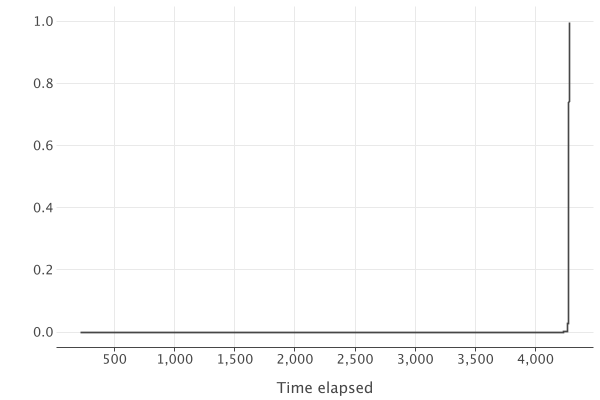
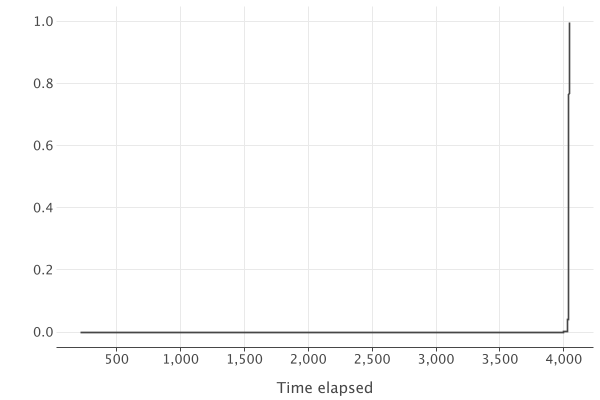
Feat: Added variable drag coefficients for different stages of flight

diff --git a/src/main/kotlin/Ballistics/2StageBallistic.kt b/src/main/kotlin/Ballistics/2StageBallistic.kt
@@ -4,22 +4,21 @@ import Maths.CartesianCoordinates.MutableCartesianCoordinate
 import Maths.Vector
 import Plotter.BallisticPlotter
 import Plotter.TimePlotter
-import Presets.launchSiteSpherical
 import Simulator
 import dt
 import time
 import kotlin.math.abs
 
 class `2StageBallistic`(
-    private val stage1 : Ballistic,
-    private val stage2 : Ballistic,
-    private val warhead : Ballistic
+    private val stage1 : PoweredBallistic,
+    private val stage2 : PoweredBallistic,
+    private val warhead : PoweredBallistic
 ) : Interfaces.Target {
 
     private var position : MutableCartesianCoordinate = stage1.startPosition.toMutable()
     private var velocity : Vector = stage1.headingVector.scale_to(1.0)
-    private var secondStage : Ballistic? = null;
-    private var thirdStage : Ballistic? = null;
+    private var secondStage : PoweredBallistic? = null;
+    private var thirdStage : PoweredBallistic? = null;
 
     private var alive : Boolean = true;
 
@@ -29,27 +28,27 @@ class `2StageBallistic`(
     private val gPlotter : TimePlotter = TimePlotter()
     private val altTimePlotter : TimePlotter = TimePlotter()
 
-    private val firstStage : Ballistic = Ballistic(
+    private val firstStage : PoweredBallistic = PoweredBallistic(
         startPosition = stage1.startPosition,
         headingVector = stage1.headingVector,
         thrust = stage1.thrust,
         burnTime = stage1.burnTime,
         emptyWeight = stage1.emptyWeight + stage2.emptyWeight + stage2.fuelMass + warhead.emptyWeight,
         fuelMass = stage1.fuelMass,
-        dragCoefficient = stage1.dragCoefficient,
+        ballisticProfile = stage1.ballisticProfile,
         crossSectionalArea = stage1.crossSectionalArea,
         launchTime = stage1.launchTime
     )
 
-    private fun createSecondStage() : Ballistic {
-        val ret = Ballistic(
+    private fun createSecondStage() : PoweredBallistic {
+        val ret = PoweredBallistic(
             startPosition = this.position.toImmutable(),
             headingVector = this.position.toSphericalCoordinate().convertRelativeVector(stage2.headingVector),
             thrust = stage2.thrust,
             burnTime = stage2.burnTime,
             emptyWeight = stage2.emptyWeight + warhead.emptyWeight,
             fuelMass = stage2.fuelMass,
-            dragCoefficient = stage2.dragCoefficient,
+            ballisticProfile = stage2.ballisticProfile,
             crossSectionalArea = stage2.crossSectionalArea,
             launchTime = time
         )
@@ -58,15 +57,15 @@ class `2StageBallistic`(
         return ret
     }
 
-    private fun createThirdStage() : Ballistic {
-        val ret = Ballistic(
+    private fun createThirdStage() : PoweredBallistic {
+        val ret = PoweredBallistic(
             startPosition = this.position.toImmutable(),
             headingVector = this.velocity,
             thrust = 1.0,
             burnTime = 1.0,
             emptyWeight = warhead.emptyWeight,
             fuelMass = 1.0,
-            dragCoefficient = warhead.dragCoefficient,
+            ballisticProfile = warhead.ballisticProfile,
             crossSectionalArea = warhead.crossSectionalArea,
             launchTime = time
         )

diff --git a/src/main/kotlin/Presets/ICBMs.kt b/src/main/kotlin/Presets/ICBMs.kt
@@ -1,36 +1,33 @@
 package Presets
 
-import Ballistics.Ballistic
-import Maths.CartesianCoordinates.CartesianCoordinate
+import Ballistics.BallisticProfile
+import Ballistics.PoweredBallistic
 import Maths.Vector
 
 // ICBM, based loosely on the R-36
-val R36s1 = Ballistic(
+val R36s1 = PoweredBallistic(
     startPosition = launchSite,
     headingVector = launchSiteSpherical.convertRelativeVector(Vector(0.2, 0.0, 1.0)),
     thrust = 2366.0 * 1000.0,
     burnTime = 120.0,
     emptyWeight = 6.4 * 1000,
     fuelMass = 118.9 * 1000,
-    dragCoefficient = 0.2,
     crossSectionalArea = 9.0)
-val R36s2 = Ballistic(
+val R36s2 = PoweredBallistic(
     startPosition = launchSite,
     headingVector = Vector(2.0, 0.0, 0.5),
     thrust = 940.0 * 1000.0,
     burnTime = 100.0,
     emptyWeight = 6.7 * 1000,
     fuelMass = 45.6 * 1000,
-    dragCoefficient = 0.2,
     crossSectionalArea = 9.0)
-val R36warhead = Ballistic(
+val R36warhead = PoweredBallistic(
     startPosition = launchSite,
     headingVector = Vector(1.0, 0.0, 1.0),
     thrust = 0.0,
     burnTime = 0.0,
     emptyWeight = 7800.0,
     fuelMass = 0.0,
-    dragCoefficient = 0.05,
     crossSectionalArea = 0.16)
 val R36 = Ballistics.`2StageBallistic`(
     stage1 = R36s1,
@@ -39,32 +36,29 @@ val R36 = Ballistics.`2StageBallistic`(
 )
 
 // Minuteman III
-val ThiokolTu122 = Ballistic(
+val ThiokolTu122 = PoweredBallistic(
     startPosition = launchSite,
     headingVector = launchSiteSpherical.convertRelativeVector(Vector(0.4, 0.0, 1.0)),
     thrust = 792.0 * 1000.0,
     burnTime = 60.0,
     emptyWeight = 2292.0,
     fuelMass = 20785.0,
-    dragCoefficient = 0.2,
     crossSectionalArea = 1.67 * 1.67)
-val SR19andSR73 = Ballistic(
+val SR19andSR73 = PoweredBallistic(
     startPosition = launchSite,
     headingVector = Vector(1.0, 0.0, 1.0),
     thrust = 267.70 * 1000.0,
     burnTime = 66.0,
     emptyWeight = 795.0 + 400.0,
     fuelMass = 6237.0 + 3200.0,
-    dragCoefficient = 0.2,
     crossSectionalArea = 1.33 * 1.33)
-val W56Warhead = Ballistic(
+val W56Warhead = PoweredBallistic(
     startPosition = launchSite,
     headingVector = Vector(1.0, 0.0, 1.0),
     thrust = 0.1,
     burnTime = 0.1,
     emptyWeight = 577.0,
     fuelMass = 0.0,
-    dragCoefficient = 0.03,
     crossSectionalArea = 1.33 * 1.33)
 val MinutemanIII = Ballistics.`2StageBallistic`(
     stage1 = ThiokolTu122,

diff --git a/src/main/kotlin/Presets/TestTargets.kt b/src/main/kotlin/Presets/TestTargets.kt
@@ -1,7 +1,7 @@
 package Presets
 
 import Guidance.AltitudeCruiseGuidance
-import Ballistics.Ballistic
+import Ballistics.PoweredBallistic
 import Maths.CartesianCoordinates.CartesianCoordinate
 import Maths.SphericalCoordinates.SphericalCoordinate
 import Maths.Vector
@@ -19,61 +19,56 @@ val launchSite : CartesianCoordinate =
 val elevatedLaunchSite : CartesianCoordinate =
     elevatedLaunchSiteSpherical.toCartesianCoordinate()
 
-val test_ballistic_1 = Ballistic(
+val test_Powered_ballistic_1 = PoweredBallistic(
     startPosition = launchSite,
     headingVector = launchSiteSpherical.convertRelativeVector(Vector(0.2, 1.0, 1.5)),
     thrust = 24.0 * 1000.0,
     burnTime = 120.0,
     emptyWeight = 600.0,
-    dragCoefficient = 0.1,
     crossSectionalArea = 0.15,
 )
 
-val test_ballistic_2 = Ballistic(
+val test_Powered_ballistic_2 = PoweredBallistic(
     startPosition = launchSite,
     headingVector = launchSiteSpherical.convertRelativeVector(Vector(1.0, 0.0, 1.3)),
     thrust = 24000.0,
     burnTime = 50.0,
     emptyWeight = 600.0,
-    dragCoefficient = 0.1,
     crossSectionalArea = 0.15,
 )
 
 // Location: 34468.196035016925, 0.0, 0.0
-val test_SRBM = Ballistic(
+val test_SRBM = PoweredBallistic(
     startPosition = launchSite,
     headingVector = launchSiteSpherical.convertRelativeVector(Vector(1.0, 0.0, 2.0)),
     thrust = 28000.0,
     burnTime = 50.0,
     emptyWeight = 700.0,
-    dragCoefficient = 0.1,
     crossSectionalArea = 0.75,
 )
 
 // Location : 283000.0, 0.0, 0.0
 // Time = 295
 // Approach speed = Mach 3.45
-val test_MRBM = Ballistic(
+val test_MRBM = PoweredBallistic(
     startPosition = launchSite,
     headingVector = launchSiteSpherical.convertRelativeVector(Vector(1.0, 0.0, 1.2)),
     thrust = 120000.0,
     burnTime = 20.0,
     emptyWeight = 900.0,
-    dragCoefficient = 0.03,
     crossSectionalArea = 0.372,
 )
 
 // Location : 574000.0, 0.0, 0.0
 // Time = 380
 // Approach speed = Mach 4.59
-val test_MRBM2 = Ballistic(
+val test_MRBM2 = PoweredBallistic(
     startPosition = launchSite,
     headingVector = launchSiteSpherical.convertRelativeVector(Vector(0.2, 0.0, 1.0)),
     thrust = 120.0 * 1000.0,
     burnTime = 60.0,
     emptyWeight = 2000.0,
     fuelMass = 5000.0,
-    dragCoefficient = 0.35,
     crossSectionalArea = 0.88 * 0.88,
 )
 

diff --git a/src/main/kotlin/Ballistics/Ballistic.kt b/src/main/kotlin/Ballistics/Ballistic.kt
@@ -4,7 +4,6 @@ import Maths.CartesianCoordinates.MutableCartesianCoordinate
 import Maths.CartesianCoordinates.CartesianCoordinate
 import Maths.Vector
 import Plotter.SpaceTimeLogger
-import Presets.launchSite
 import Presets.launchSiteSpherical
 import Simulator
 import dt
@@ -65,14 +64,14 @@ fun ballistic_calculator(
 
 // An object that simulates a ballistic system from zero velocity.
 
-class Ballistic(
+class PoweredBallistic(
     val startPosition : CartesianCoordinate,
     val headingVector : Vector,
     val thrust : Double, // force :: Newtons
     val burnTime : Double, // time :: Seconds
     val emptyWeight : Double, // weight :: kg
     val fuelMass : Double = 0.0,
-    val dragCoefficient : Double,
+    val ballisticProfile : BallisticProfile = defaultBallisticProfile,
     val crossSectionalArea : Double,
     val launchTime : Double = 0.0,
 ) : Interfaces.Target {
@@ -97,7 +96,7 @@ class Ballistic(
             burnTime = burnTime + launchTime,
             mass = emptyWeight +
                     (fuelMass * max(0.0, min(1.0, burnTime - (time - launchTime)) / burnTime)),
-            dragCoefficient = dragCoefficient,
+            dragCoefficient = this.ballisticProfile.dragCoefficient(this.ki),
             crossSectionalArea = crossSectionalArea,
             heading_vector = headingVector,
             position = this.position,

diff --git a/src/main/kotlin/Ballistics/BallisticProfile.kt b/src/main/kotlin/Ballistics/BallisticProfile.kt
@@ -1,0 +1,29 @@
+package Ballistics
+import Maths.Vector
+
+class BallisticProfile(
+    val subsonicDragCoefficient : Double,
+    val transonicDragCoefficient : Double,
+    val supersonicDragCoefficient : Double,
+    val hypersonicDragCoefficient : Double
+) {
+    fun dragCoefficient(velocity : Vector) : Double {
+        val machNumber = velocity.toMach()
+        if (machNumber <= 0.8) {
+            return subsonicDragCoefficient
+        } else if (machNumber <= 1.2) {
+            return transonicDragCoefficient
+        } else if (machNumber <= 5) {
+            return supersonicDragCoefficient
+        } else {
+            return hypersonicDragCoefficient
+        }
+    }
+}
+
+val defaultBallisticProfile = BallisticProfile(
+    subsonicDragCoefficient = 0.4,
+    transonicDragCoefficient = 1.2,
+    supersonicDragCoefficient = 0.3,
+    hypersonicDragCoefficient = 0.25
+)

diff --git a/src/main/kotlin/Maths/Vector.kt b/src/main/kotlin/Maths/Vector.kt
@@ -80,4 +80,6 @@ data class Vector(var dx : Double, var dy : Double, var dz : Double) {
     fun angleBetweenAbs(other : Vector) : Double {
         return acos(this * other / (this.magnitude() * other.magnitude()))
     }
+
+    fun toMach() : Double = this.magnitude() / 340.0
 };
